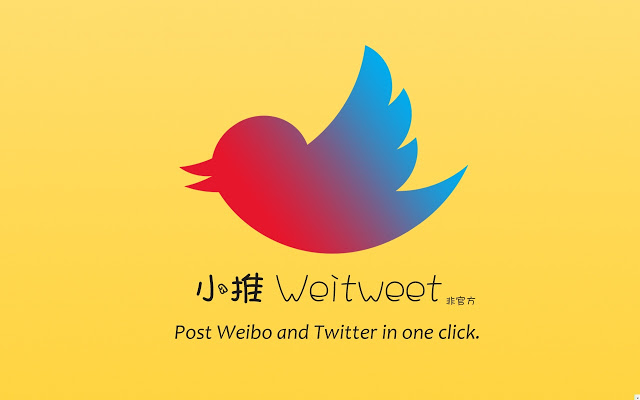
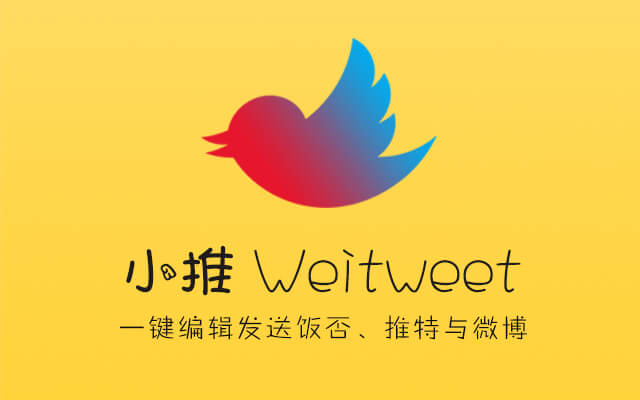
update weitweet

Changed region(s): [[0.1875, 0.09, 0.8438, 0.87], [0.9688, 0.99, 1.0, 1.0]]

diff --git a/pages/projects.vue b/pages/projects.vue
@@ -52,6 +52,11 @@ export default {
           ]
         },
         {
+          id: 'weitweet',
+          url: 'https://github.com/crimx/crx-weitweet',
+          stack: ['vue', 'vuex']
+        },
+        {
           id: 'postcss-safe-important',
           avatar: 'postcss',
           url: 'https://github.com/crimx/postcss-safe-important',
@@ -66,11 +71,6 @@ export default {
           id: 'ext-github-release-notifier',
           url: 'https://github.com/crimx/ext-github-release-notifier',
           stack: ['vue', 'github-api']
-        },
-        {
-          id: 'weitweet',
-          url: 'https://github.com/crimx/crx-weitweet',
-          stack: ['vue', 'vuex']
         },
         {
           id: 'javascript30',

diff --git a/locales/projects/weitweet/zh-CN.md b/locales/projects/weitweet/zh-CN.md
@@ -1,6 +1,8 @@
 [![Github Stars][img-gh-stars]][gh-stars]
 [![Chrome Web Store][img-chrome-dl]][cws]
 [![Chrome Web Store][img-chrome-rating]][cws]
+[![Mozilla Add-on][img-firefox-dl]][amo]
+[![Mozilla Add-on][img-firefox-rating]][amo]
 
 [img-gh-stars]: https://img.shields.io/github/stars/crimx/crx-weitweet.svg?label=Stars&style=social
 [gh-stars]: https://github.com/crimx/crx-weitweet
@@ -9,9 +11,16 @@
 [img-chrome-rating]: https://img.shields.io/chrome-web-store/rating/jcgjbjbbcjgkpdanbnafdbdlbjacdkln.svg?maxAge=3600&colorB=1a73e8&label=rating
 [cws]: https://chrome.google.com/webstore/detail/jcgjbjbbcjgkpdanbnafdbdlbjacdkln?hl=en
 
+[img-firefox-dl]: https://img.shields.io/amo/d/weitweet.svg?maxAge=3600&colorB=ff9500&label=Firefox%20downloads
+[img-firefox-rating]: https://img.shields.io/amo/rating/weitweet.svg?maxAge=3600&colorB=ff9500&label=rating
+[amo]: https://addons.mozilla.org/firefox/addon/weitweet/
 
-一款可以同时分享网页到微博和推特的 Chrome 扩展。并可以从网页中提取所有图片。
+
+一款可以分享网页到饭否、推特和微博的 Chrome / Firefox 扩展。并可以从网页中提取所有图片。
 
 <hr class="read-more" />
 
-利用 `chrome.identity` 实现 OAuth2 授权。使用 Vuex 管理数据，实现主次编辑框联动交互。
+1. 对 OAuth 1a 与 2 的验证流程消化理解，并抽象出通用类利用模板模式支持各个平台（饭否与推特使用 OAuth 1a，微博使用 Oauth 2）。
+2. 利用 `chrome.identity` 以及 content script 黑科技实现 OAuth 的无服务器自动授权。
+3. UI 完全基于 [iview](https://iviewui.com) 。
+4. 代码构建系统利用 webpack-chain 基于 vue-cli 展开，一键构建打包。

diff --git a/locales/projects/weitweet/en-US.md b/locales/projects/weitweet/en-US.md
@@ -1,6 +1,8 @@
 [![Github Stars][img-gh-stars]][gh-stars]
 [![Chrome Web Store][img-chrome-dl]][cws]
 [![Chrome Web Store][img-chrome-rating]][cws]
+[![Mozilla Add-on][img-firefox-dl]][amo]
+[![Mozilla Add-on][img-firefox-rating]][amo]
 
 [img-gh-stars]: https://img.shields.io/github/stars/crimx/crx-weitweet.svg?label=Stars&style=social
 [gh-stars]: https://github.com/crimx/crx-weitweet
@@ -9,9 +11,16 @@
 [img-chrome-rating]: https://img.shields.io/chrome-web-store/rating/jcgjbjbbcjgkpdanbnafdbdlbjacdkln.svg?maxAge=3600&colorB=1a73e8&label=rating
 [cws]: https://chrome.google.com/webstore/detail/jcgjbjbbcjgkpdanbnafdbdlbjacdkln?hl=en
 
+[img-firefox-dl]: https://img.shields.io/amo/d/weitweet.svg?maxAge=3600&colorB=ff9500&label=Firefox%20downloads
+[img-firefox-rating]: https://img.shields.io/amo/rating/weitweet.svg?maxAge=3600&colorB=ff9500&label=rating
+[amo]: https://addons.mozilla.org/firefox/addon/weitweet/
 
-A chrome extension written in Vue & Vuex. Post Weibo and Twitter in one click.
+
+Chrome / Firefox extension. Share Fanfou, Twitter and Weibo in one click.
 
 <hr class="read-more" />
 
-Implement OAuth2 workflow with `chrome.identity`. Let Vuex handle complex main-sub editor interaction.
+1. Abstract OAuth 1a & 2 flows using template design pattern to support different platforms（OAuth 1a with Fanfou and Twitter, Oauth 2 with Weibo）.
+2. Serverless OAuth flow with `chrome.identity` and content script magic.
+3. UI with [iview](https://iviewui.com).
+4. Build system is vue-cli based and extended with webpack-chain, which enables building and packing in one click.
